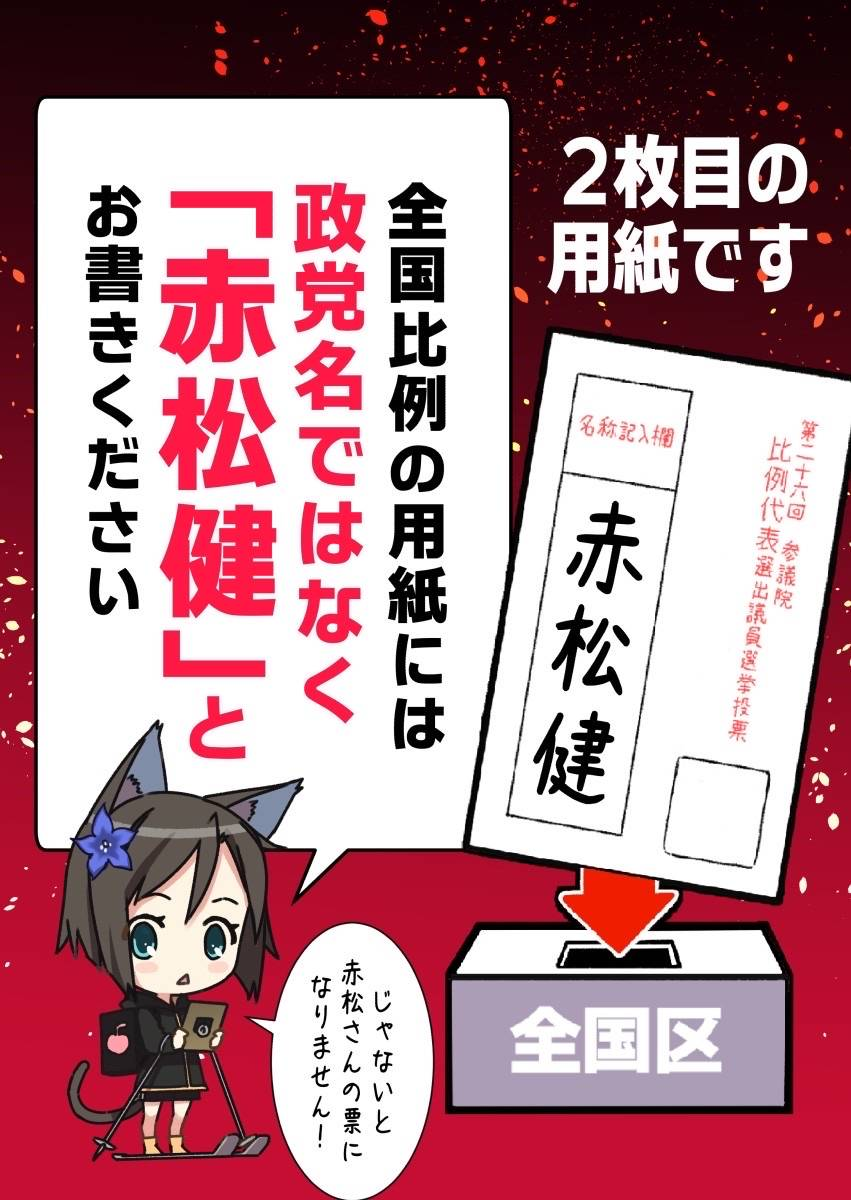
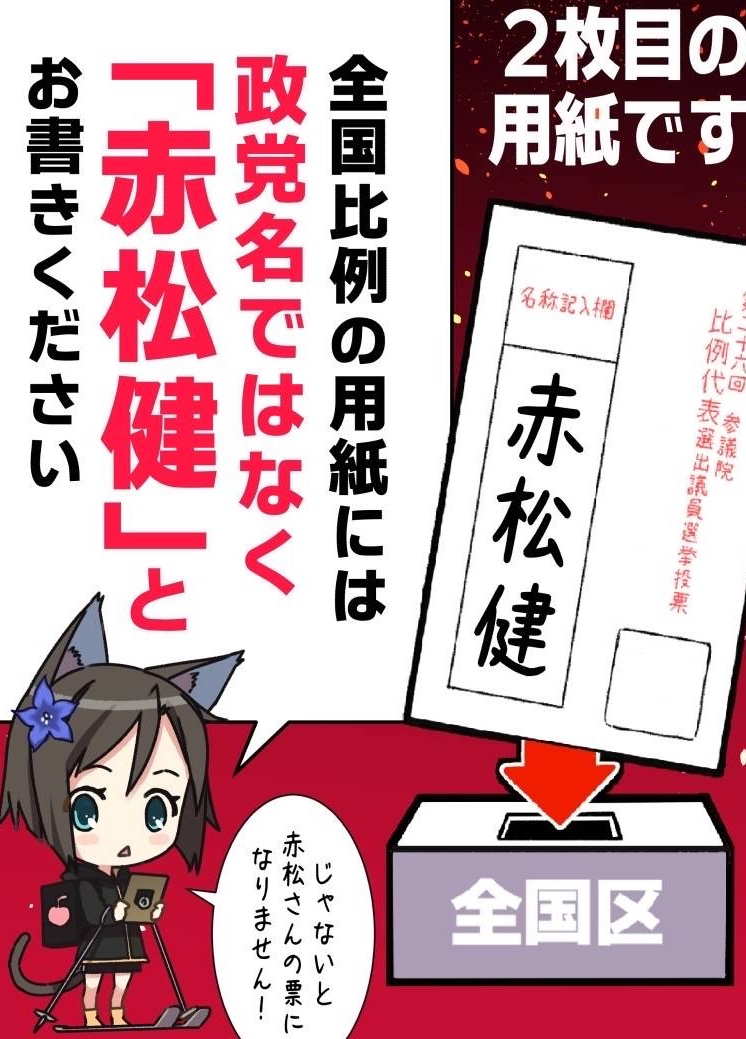
how to vote image

diff --git a/_layouts/default.html b/_layouts/default.html
@@ -32,7 +32,7 @@
             </ul>  
           </div>
           <div class="character-yuu">
-            <img src="/assets/images/yuu.png" width="120px">
+            <img src="/assets/images/howtovote.jpeg" width="150px">
           </div>
         </header>
     </div>
